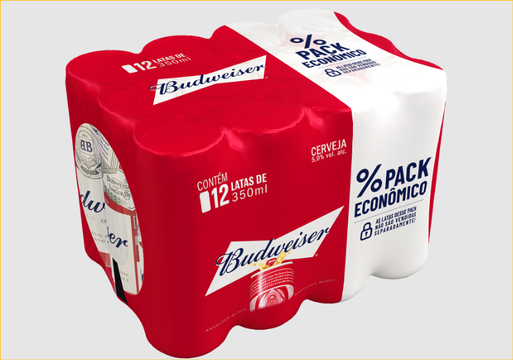
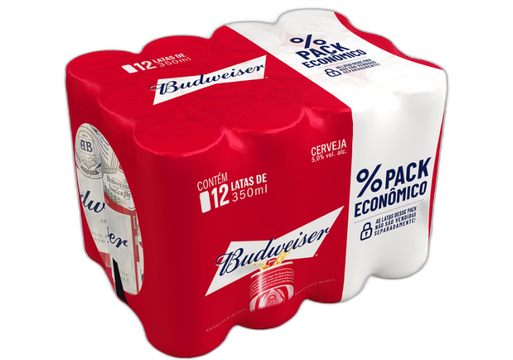
v3.66.7: Deck - remove fundo da foto 37450 via rembg (branco-no-branco)

diff --git a/frontend/src/App.jsx b/frontend/src/App.jsx
@@ -133,7 +133,7 @@ function AppContent() {
 }
 
 // Versão do app — ver CHANGELOG.md para o esquema (vMAJOR.MINOR.PATCH)
-export const APP_VERSION = "v3.66.6";
+export const APP_VERSION = "v3.66.7";
 
 export default function App() {
   return (

diff --git a/CHANGELOG.md b/CHANGELOG.md
@@ -1,6 +1,9 @@
 # Versionamento — CMD Conde App
 
-Versão atual: **v3.66.6** — Corrige build do Vercel (PWA) + otimiza fotos do Deck.
+Versão atual: **v3.66.7** — Deck: fundo da foto 37450 (Budweiser 12-pack) removido via IA.
+
+## v3.66.7 — Fundo branco-no-branco (rembg)
+- Foto **37450** (Budweiser pack, lado branco em fundo claro) que o flood-fill não separava: fundo removido com **rembg (IA)**, preservando o lado branco da embalagem.
 
 ## v3.66.6 — Fix build Vercel + fotos otimizadas
 - **Build do Vercel falhava**: o PWA/Workbox tentava pré-cachear as fotos do Deck e uma delas (5,23 MB) estourava o limite. Correção: `globIgnores` exclui `produtos/**` do precache + `runtimeCaching` CacheFirst (cacheia sob demanda, 30 dias).
